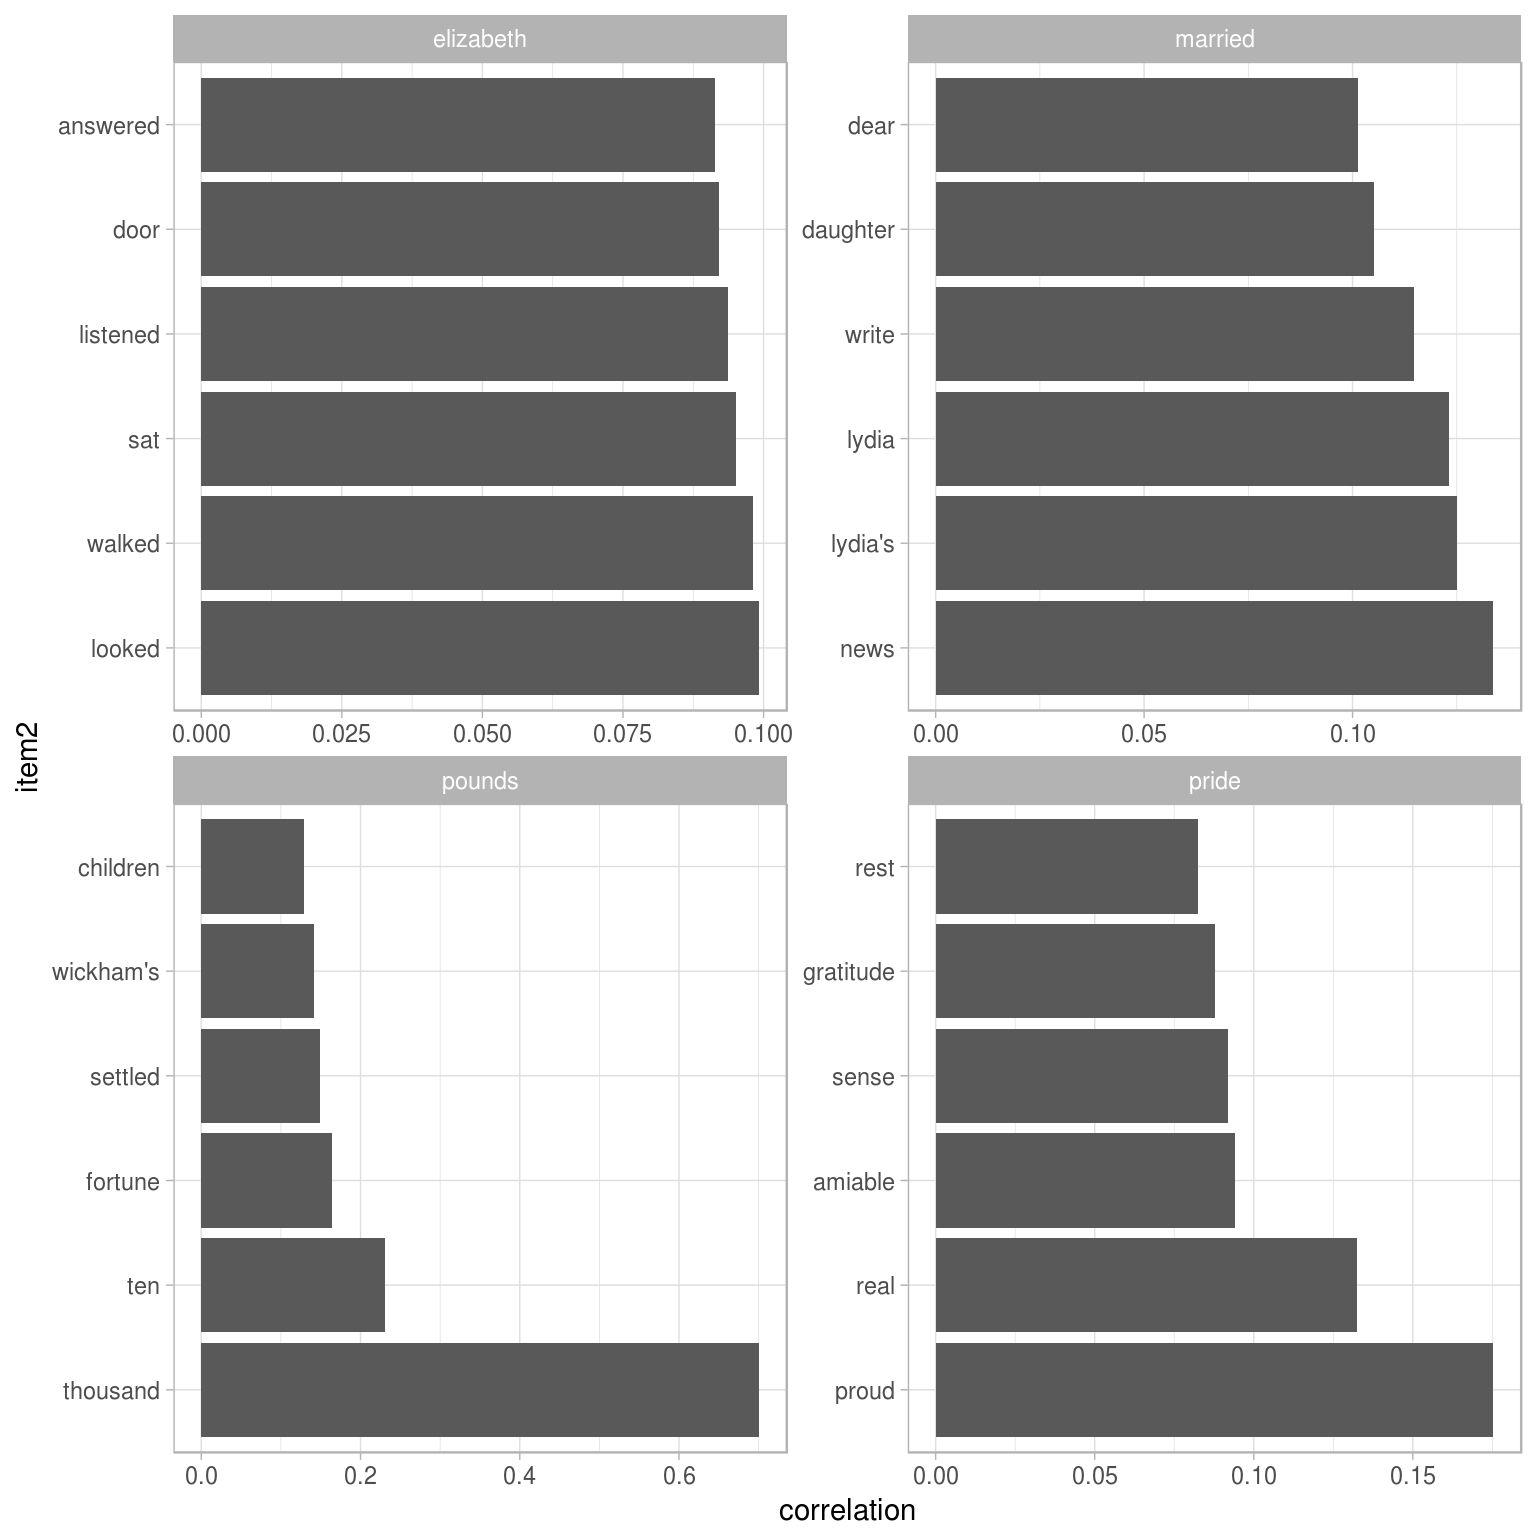
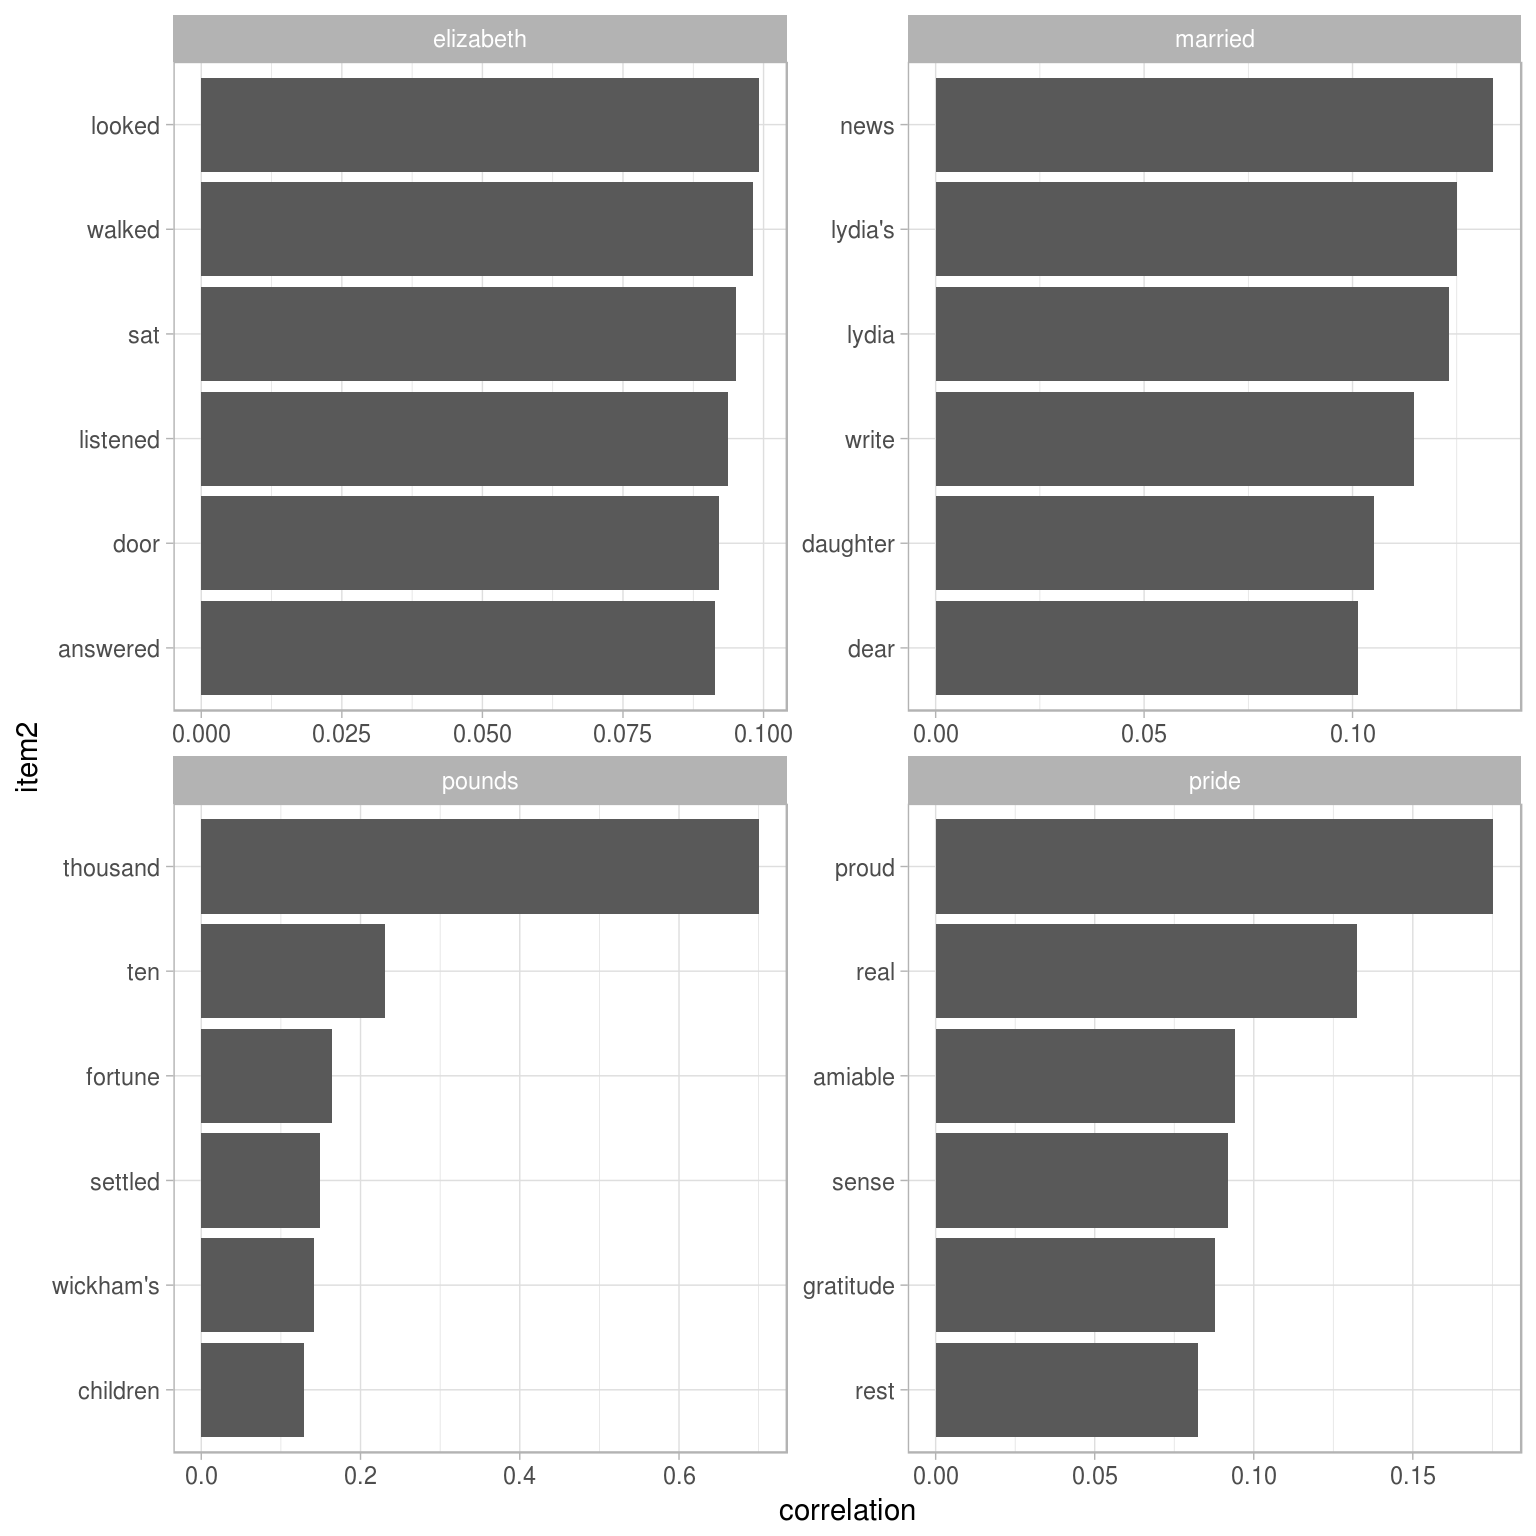
Updating book (118)

diff --git a/ngrams.html b/ngrams.html
@@ -750,7 +750,7 @@ word_cors</code></pre></div>
 <span class="st">  </span><span class="kw">filter</span>(item1 %in%<span class="st"> </span><span class="kw">c</span>(<span class="st">&quot;elizabeth&quot;</span>, <span class="st">&quot;pounds&quot;</span>, <span class="st">&quot;married&quot;</span>, <span class="st">&quot;pride&quot;</span>)) %&gt;%
 <span class="st">  </span><span class="kw">group_by</span>(item1) %&gt;%
 <span class="st">  </span><span class="kw">top_n</span>(<span class="dv">6</span>) %&gt;%
-<span class="st">  </span><span class="kw">mutate</span>(<span class="dt">item2 =</span> <span class="kw">reorder</span>(item2, -correlation)) %&gt;%
+<span class="st">  </span><span class="kw">mutate</span>(<span class="dt">item2 =</span> <span class="kw">reorder</span>(item2, correlation)) %&gt;%
 <span class="st">  </span><span class="kw">ggplot</span>(<span class="kw">aes</span>(item2, correlation)) +
 <span class="st">  </span><span class="kw">geom_bar</span>(<span class="dt">stat =</span> <span class="st">&quot;identity&quot;</span>) +
 <span class="st">  </span><span class="kw">facet_wrap</span>(~<span class="st"> </span>item1, <span class="dt">scales =</span> <span class="st">&quot;free&quot;</span>) +

diff --git a/05-word-combinations.md b/05-word-combinations.md
@@ -755,7 +755,7 @@ word_cors %>%
   filter(item1 %in% c("elizabeth", "pounds", "married", "pride")) %>%
   group_by(item1) %>%
   top_n(6) %>%
-  mutate(item2 = reorder(item2, -correlation)) %>%
+  mutate(item2 = reorder(item2, correlation)) %>%
   ggplot(aes(item2, correlation)) +
   geom_bar(stat = "identity") +
   facet_wrap(~ item1, scales = "free") +
